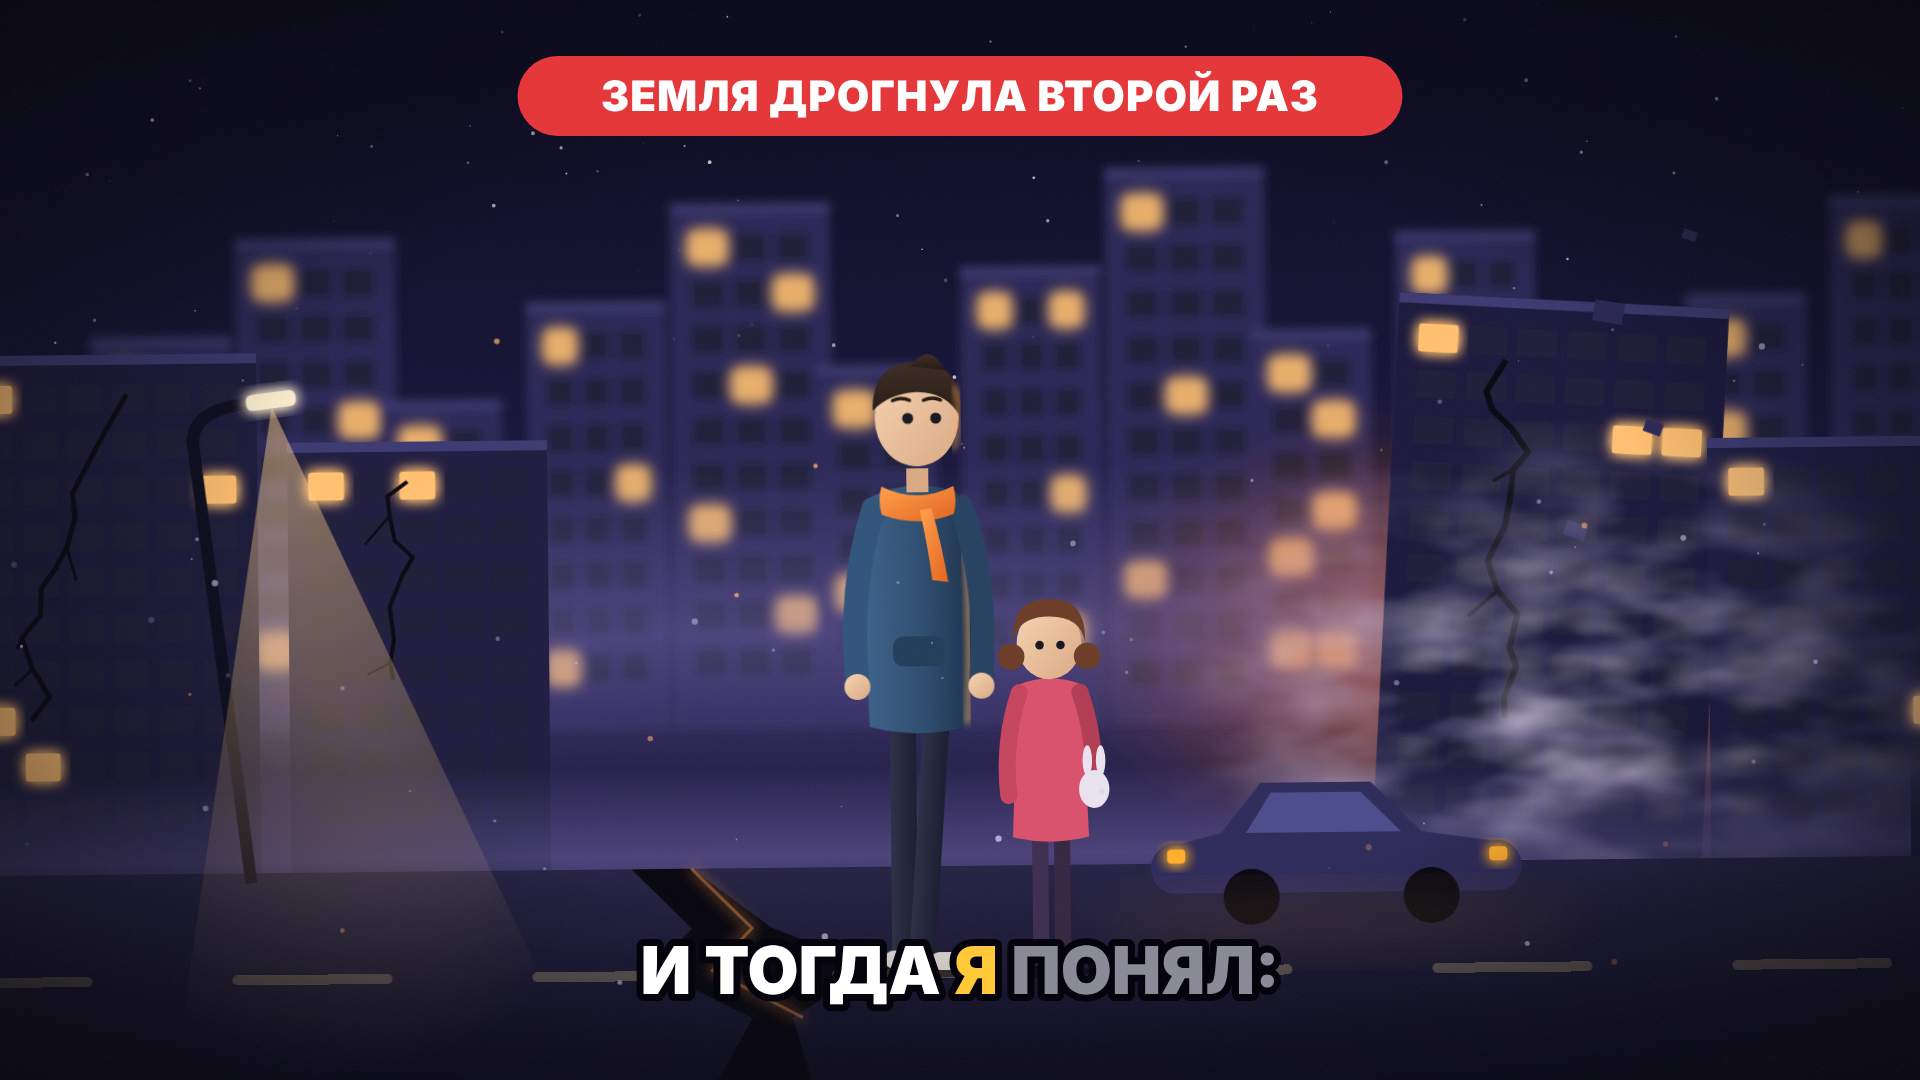
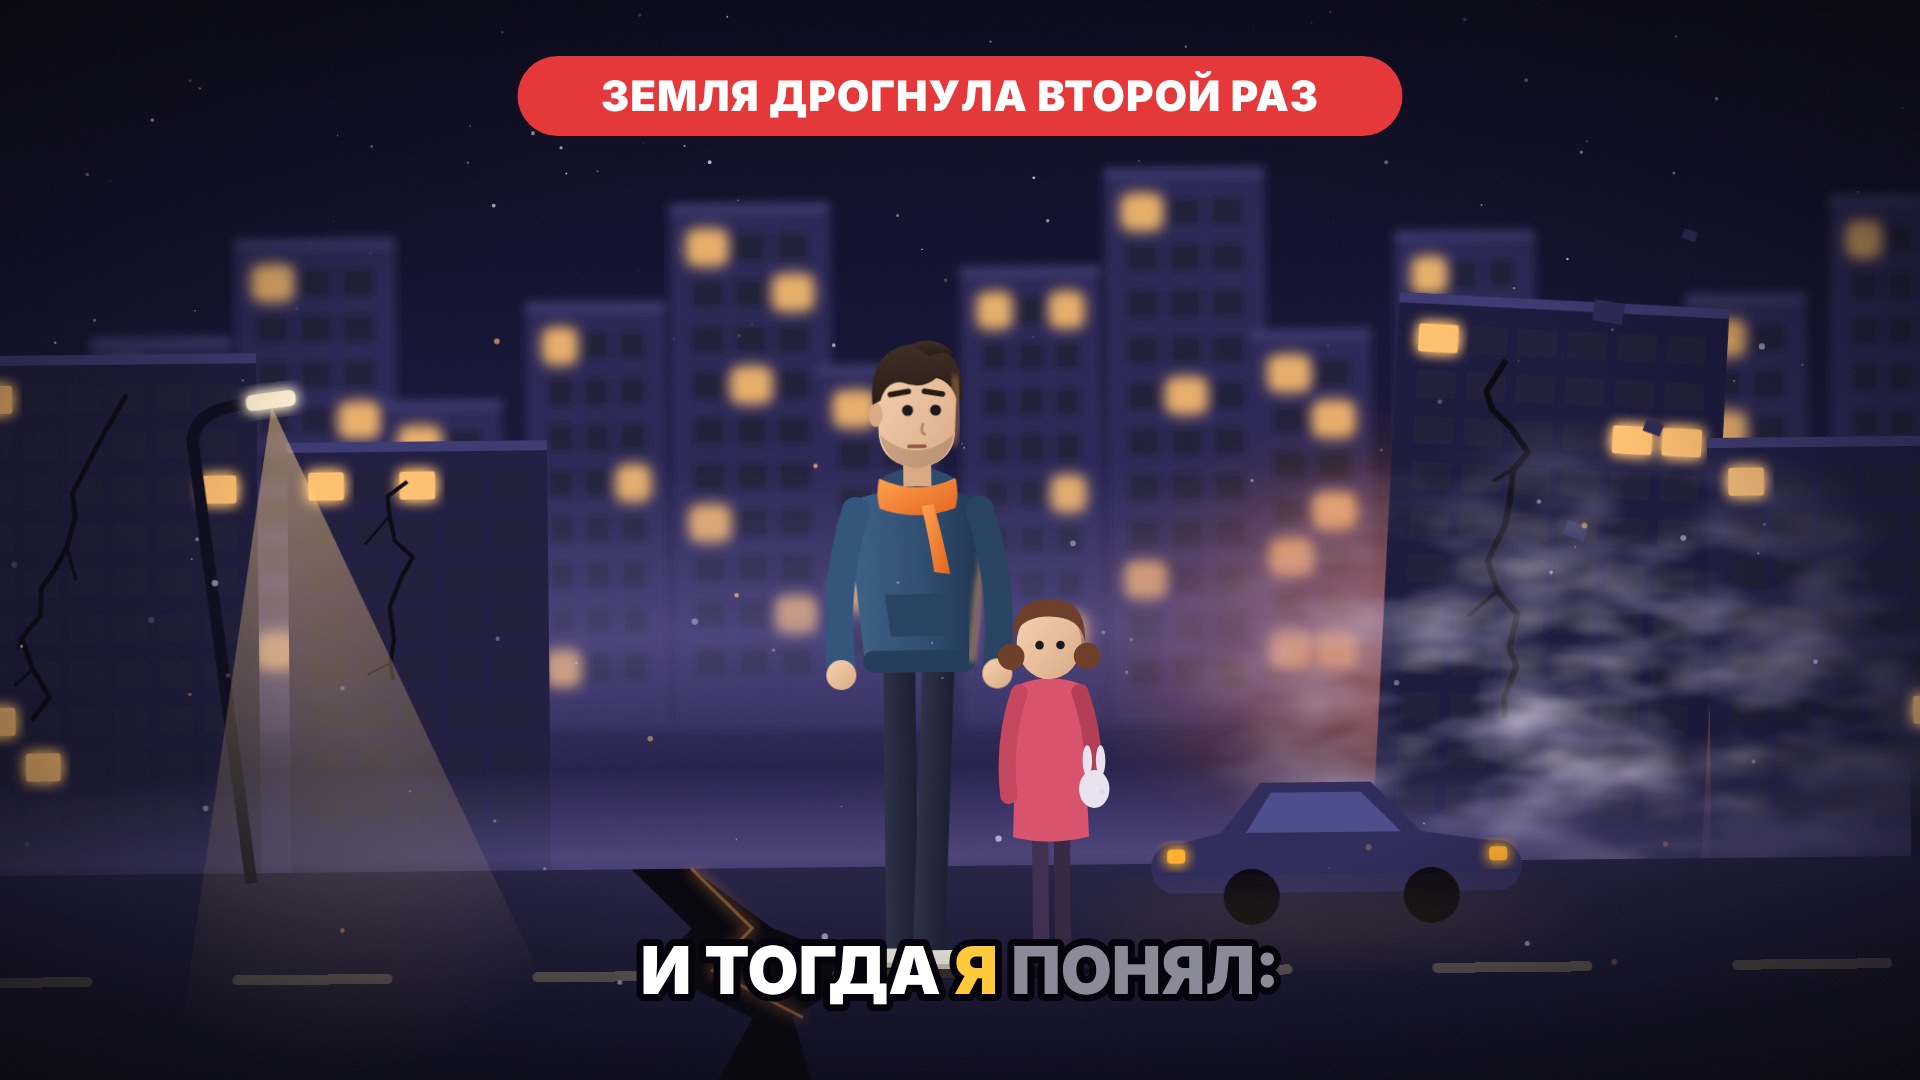
Redesign hero as clearly male, add character sheet
Claude-Session: https://claude.ai/code/session_01P86xby7A771ANW84WEa3Ei

Changed region(s): [[0.4062, 0.3056, 0.5312, 0.7028], [0.4688, 0.7639, 0.5, 0.7944]]

diff --git a/style_tests/gen_quake.js b/style_tests/gen_quake.js
@@ -23,38 +23,51 @@ const DEFS = `
   <linearGradient id="hairG" x1="0" y1="0" x2="0" y2="1"><stop offset="0" stop-color="#3b2a22"/><stop offset="1" stop-color="#22160f"/></linearGradient>
 `;
 
-// ГЕРОЙ: парень ~25, пропорция ~1:5.5, без контура, мягкий градиентный объём,
+// ГЕРОЙ: Макс (рабочее имя), парень ~25, пропорция ~1:5.5, без контура, мягкий градиентный объём,
 // глаза-точки, рот почти не виден, руки-«трубки». Фирменная деталь — оранжевый шарф.
 // rimColor — контровой свет от источника сцены.
 function hero(x, base, sc, { flip = false, rim = '#ffb36b', look = 0, armUp = false } = {}) {
   const f = flip ? -1 : 1;
   return `<g transform="translate(${x},${base}) scale(${sc * f},${sc})">
-   <ellipse cx="0" cy="2" rx="62" ry="10" fill="#000" opacity=".5"/>
-   <!-- ноги -->
-   <rect x="-30" y="-250" width="26" height="244" rx="13" fill="url(#pantG)"/>
-   <rect x="4" y="-250" width="26" height="244" rx="13" fill="url(#pantG)" transform="rotate(4 17 -250)"/>
-   <rect x="-38" y="-16" width="40" height="18" rx="9" fill="#dcd8d0"/><rect x="8" y="-14" width="40" height="18" rx="9" fill="#dcd8d0"/>
-   <!-- корпус (худи) -->
-   <path d="M-46,-470 Q0,-492 46,-470 Q56,-360 50,-240 Q0,-226 -50,-240 Q-56,-360 -46,-470Z" fill="url(#hoodG)"/>
-   <path d="M44,-468 Q54,-360 48,-242" stroke="${rim}" stroke-width="5" fill="none" opacity=".75" filter="url(#soft)"/>
-   <rect x="-26" y="-330" width="52" height="30" rx="10" fill="#203a58"/>
-   <!-- руки-трубки -->
-   <path d="M-44,-458 Q-70,-380 -62,-286" stroke="#2f5279" stroke-width="24" stroke-linecap="round" fill="none"/>
+   <ellipse cx="0" cy="2" rx="70" ry="11" fill="#000" opacity=".5"/>
+   <!-- ноги: прямые джинсы -->
+   <rect x="-36" y="-320" width="32" height="312" rx="12" fill="url(#pantG)"/>
+   <rect x="4" y="-320" width="32" height="312" rx="12" fill="url(#pantG)" transform="rotate(2.5 20 -320)"/>
+   <!-- кроссовки, крупные -->
+   <path d="M-46,-18 h46 v18 h-54 a10 10 0 0 1 8,-18Z" fill="#e4e0d8"/><rect x="-54" y="-4" width="56" height="5" rx="2" fill="#b9b3a8"/>
+   <path d="M10,-16 h44 a10 10 0 0 1 8,16 h-52Z" fill="#e4e0d8"/><rect x="10" y="-2" width="54" height="5" rx="2" fill="#b9b3a8"/>
+   <!-- худи: широкие плечи, сужается к поясу, заканчивается на бёдрах -->
+   <path d="M-66,-466 Q0,-490 66,-466 Q72,-420 62,-380 L54,-300 Q0,-288 -54,-300 L-62,-380 Q-72,-420 -66,-466Z" fill="url(#hoodG)"/>
+   <rect x="-56" y="-316" width="112" height="22" rx="10" fill="#203a58"/>
+   <path d="M64,-462 Q70,-420 60,-380 L52,-304" stroke="${rim}" stroke-width="5" fill="none" opacity=".75" filter="url(#soft)"/>
+   <path d="M-34,-372 h68 l-6,42 h-56z" fill="#24405f"/>
+   <!-- капюшон, сложен за шеей -->
+   <path d="M-40,-486 Q0,-512 40,-486 Q34,-462 0,-460 Q-34,-462 -40,-486Z" fill="#2a4769"/>
+   <!-- руки-трубки, от плеч -->
+   <path d="M-62,-456 Q-86,-380 -78,-300" stroke="#2f5279" stroke-width="28" stroke-linecap="round" fill="none"/>
+   <circle cx="-78" cy="-292" r="15" fill="url(#skinG)"/>
    ${armUp
-     ? `<path d="M44,-458 Q92,-470 98,-540" stroke="#2b4a6d" stroke-width="24" stroke-linecap="round" fill="none"/><circle cx="98" cy="-548" r="13" fill="url(#skinG)"/>`
-     : `<path d="M44,-458 Q70,-380 62,-286" stroke="#24405f" stroke-width="24" stroke-linecap="round" fill="none"/><circle cx="62" cy="-280" r="13" fill="url(#skinG)"/>`}
-   <circle cx="-62" cy="-280" r="13" fill="url(#skinG)"/>
+     ? `<path d="M62,-456 Q110,-470 116,-540" stroke="#2b4a6d" stroke-width="28" stroke-linecap="round" fill="none"/><circle cx="116" cy="-550" r="15" fill="url(#skinG)"/>`
+     : `<path d="M62,-456 Q86,-380 78,-300" stroke="#24405f" stroke-width="28" stroke-linecap="round" fill="none"/><circle cx="78" cy="-292" r="15" fill="url(#skinG)"/>`}
    <!-- шарф -->
-   <path d="M-36,-480 Q0,-462 36,-480 Q40,-466 36,-452 Q0,-438 -36,-452 Q-40,-466 -36,-480Z" fill="url(#scarfG)"/>
-   <path d="M14,-458 Q24,-420 30,-384 L14,-386 Q10,-420 2,-456Z" fill="url(#scarfG)"/>
-   <!-- голова -->
-   <rect x="-11" y="-498" width="22" height="24" fill="#d9a882"/>
-   <ellipse cx="0" cy="-548" rx="42" ry="48" fill="url(#skinG)"/>
-   <path d="M-44,-556 Q-44,-606 2,-604 Q48,-602 44,-548 Q30,-576 -4,-574 Q-28,-572 -44,-556Z" fill="url(#hairG)"/>
-   <path d="M-6,-600 Q14,-626 28,-596Z" fill="url(#hairG)"/>
-   <circle cx="${-13 + look}" cy="-548" r="5.5" fill="#15131c"/><circle cx="${15 + look}" cy="-548" r="5.5" fill="#15131c"/>
-   <path d="M-24,-566 q9,-4 17,0 M7,-566 q9,-4 17,0" stroke="#22160f" stroke-width="3.5" stroke-linecap="round" fill="none"/>
-   <path d="M38,-580 Q48,-548 36,-516" stroke="${rim}" stroke-width="4" fill="none" opacity=".7" filter="url(#soft)"/>
+   <path d="M-38,-488 Q0,-470 38,-488 Q42,-474 38,-458 Q0,-444 -38,-458 Q-42,-474 -38,-488Z" fill="url(#scarfG)"/>
+   <path d="M16,-462 Q26,-424 32,-392 L16,-394 Q12,-424 4,-460Z" fill="url(#scarfG)"/>
+   <!-- шея и голова: квадратнее челюсть -->
+   <rect x="-14" y="-506" width="28" height="26" fill="#d9a882"/>
+   <path d="M-40,-570 Q-42,-606 0,-608 Q42,-606 40,-570 L38,-530 Q34,-502 0,-498 Q-34,-502 -38,-530Z" fill="url(#skinG)"/>
+   <!-- лёгкая щетина -->
+   <path d="M-37,-532 Q-32,-502 0,-498 Q32,-502 37,-532 Q20,-516 0,-516 Q-20,-516 -37,-532Z" fill="#6b4a3a" opacity=".28"/>
+   <!-- ухо -->
+   <ellipse cx="-41" cy="-552" rx="7" ry="12" fill="#d9a882"/>
+   <!-- короткая стрижка, чёлка набок, без пучка -->
+   <path d="M-44,-562 Q-48,-616 -6,-622 Q40,-626 46,-584 Q46,-566 42,-558 Q38,-584 20,-588 Q6,-576 -14,-584 Q-30,-586 -36,-566Z" fill="url(#hairG)"/>
+   <path d="M-6,-622 Q22,-632 38,-612 Q26,-616 14,-610Z" fill="url(#hairG)"/>
+   <!-- лицо -->
+   <circle cx="${-13 + look}" cy="-556" r="5.5" fill="#15131c"/><circle cx="${15 + look}" cy="-556" r="5.5" fill="#15131c"/>
+   <path d="M-26,-572 l18,-3 M8,-575 l18,3" stroke="#22160f" stroke-width="5.5" stroke-linecap="round" fill="none"/>
+   <path d="M${2 + look},-542 q-3,8 2,10" stroke="#b9876a" stroke-width="3" fill="none" stroke-linecap="round"/>
+   <path d="M-8,-520 h16" stroke="#8a5240" stroke-width="3.5" stroke-linecap="round"/>
+   <path d="M38,-590 Q46,-552 36,-520" stroke="${rim}" stroke-width="4" fill="none" opacity=".7" filter="url(#soft)"/>
   </g>`;
 }
 // второстепенный персонаж: девочка-соседка ~8 лет (та же графика)
@@ -200,10 +213,25 @@ function room() {
   </svg>`;
 }
 
+function sheet() {
+  return `<svg xmlns="http://www.w3.org/2000/svg" width="${W}" height="${H}"><defs>${DEFS}
+   <radialGradient id="bg" cx=".5" cy=".45" r=".8"><stop offset="0" stop-color="#2a2752"/><stop offset="1" stop-color="#0c0b1d"/></radialGradient></defs>
+   <rect width="${W}" height="${H}" fill="url(#bg)"/>
+   ${hero(420, 900, 1.15, { rim: '#ffcf8a' })}
+   ${hero(960, 900, 1.15, { rim: '#ffcf8a', armUp: true, look: 5 })}
+   ${hero(1500, 900, 1.15, { rim: '#9fc4ff', flip: true, look: 4 })}
+   <g font-family="Inter" font-weight="800" font-size="34" fill="#cfc8ee" text-anchor="middle">
+    <text x="420" y="990">СТОИТ</text><text x="960" y="990">ТЯНЕТСЯ</text><text x="1500" y="990">ПОВОРОТ</text></g>
+   <text x="70" y="100" font-family="Inter" font-weight="900" font-size="54" fill="#fff">МАКС · 25 ЛЕТ</text>
+   <text x="70" y="148" font-family="Inter" font-weight="600" font-size="30" fill="#a9a3cc">главный герой канала «Один герой» · фирменная деталь — оранжевый шарф</text>
+   <rect width="${W}" height="${H}" fill="url(#vig)" opacity=".6"/>
+  </svg>`;
+}
+
 (async () => {
   const b = await chromium.launch();
   const p = await b.newPage({ viewport: { width: W, height: H } });
-  for (const [n, fn] of [['Q1_street', street], ['Q2_room', room]]) {
+  for (const [n, fn] of [['Q1_street', street], ['Q2_room', room], ['HERO_sheet', sheet]]) {
     const svg = fn(); fs.writeFileSync(n + '.svg', svg);
     await p.setContent(`<body style="margin:0">${svg}</body>`); await p.screenshot({ path: n + '.png' }); console.log('ok', n);
   }
